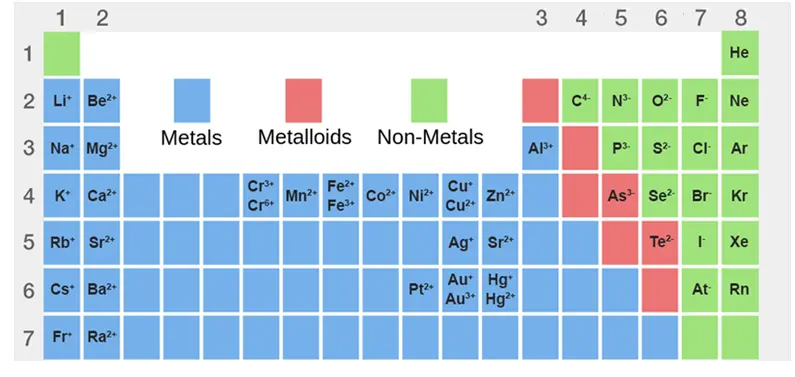
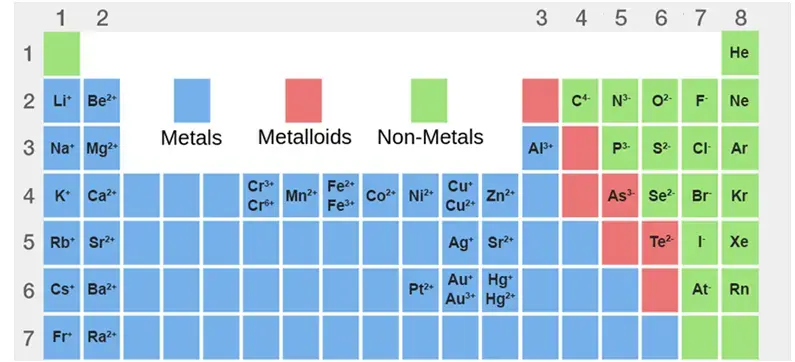
Lessons: remove review system (Under review tag), auto-matched image backgrounds, soft photo circles; 1f content updates (hydroxide, periodic table reveal, lattice slides, melting-point chart)
Claude-Session: https://claude.ai/code/session_01H1UEYcRVFZwctk9pSkbS59

diff --git a/interactive/lessons/chemistry/1f/draft/index.html b/interactive/lessons/chemistry/1f/draft/index.html
@@ -32,7 +32,7 @@
     <div class="card"><h3 style="margin-top:0;color:var(--green)">Cations</h3><p style="font:900 44px 'Barlow Condensed',Arial Narrow,sans-serif;color:var(--green)">Na<sup>+</sup></p><p>Atoms that <b>lost</b> electrons, so they have more protons than electrons. <b>Positive.</b> Usually <b>metals</b>.</p></div>
     <div class="card"><h3 style="margin-top:0;color:var(--acc2)">Anions</h3><p style="font:900 44px 'Barlow Condensed',Arial Narrow,sans-serif;color:var(--acc2)">Cl<sup>−</sup></p><p>Atoms that <b>gained</b> electrons, so they have more electrons than protons. <b>Negative.</b> Usually <b>non-metals</b>.</p></div>
   </div>
-  <div class="grid2"><figure class="pic sm"><img src="img/kitten1.webp" alt="A happy kitten"><figcaption>Cat-ions are <b>paw-sitive</b></figcaption></figure><figure class="pic sm"><img src="img/gold.webp" alt="Molten gold being poured"><figcaption>Metals like gold (Au) can lose electrons to form positively charged cations (Au<sup>+</sup>)</figcaption></figure></div>
+  <div class="grid2"><figure class="pic sm" data-nomatch><div class="softrow" style="margin:0"><img class="soft" src="img/kitten1.webp" alt="A happy kitten"></div><figcaption>Cat-ions are <b>paw-sitive</b></figcaption></figure><figure class="pic sm"><img src="img/gold.webp" alt="Molten gold being poured"><figcaption>Metals like gold (Au) can lose electrons to form positively charged cations (Au<sup>+</sup>)</figcaption></figure></div>
   <p>Atoms lose or gain electrons to get a <b>full outer shell</b>. Metals have 1–3 outer electrons, so they lose them. Non-metals have 5–7, so they gain more.</p>
   <table class="cmp">
     <thead><tr><th>Atom</th><th>Electrons</th><th>Change</th><th>Ion</th><th>Electrons</th></tr></thead>
@@ -44,7 +44,13 @@
     </tbody>
   </table>
   <div class="grid2"><figure class="pic sm"><img src="img/cl-ion.webp" alt="Chlorine atom 2.8.7 gains an electron to become a chloride ion in brackets with a minus charge"><figcaption>Chlorine atom → chloride ion, Cl<sup>−</sup></figcaption></figure><figure class="pic sm"><img src="img/na-ion.webp" alt="Sodium atom loses its outer electron to become a sodium ion"><figcaption>Sodium atom → sodium ion, Na<sup>+</sup>. You don't need to draw the outer shell once its electron has gone.</figcaption></figure></div>
-  <div class="grid2" style="align-items:center"><div><p><b>Whole molecules can be ions too.</b> A phosphate ion has gained an extra electron on each of 3 oxygen atoms, so it has a charge of 3− (PO<sub>4</sub><sup>3−</sup>).</p><p>Nitrate (NO<sub>3</sub><sup>−</sup>), sulfate (SO<sub>4</sub><sup>2−</sup>) and carbonate (CO<sub>3</sub><sup>2−</sup>) are other examples.</p></div><figure class="pic sm" style="background:#222"><img src="img/phosphate.webp" alt="Phosphate ion: P double bonded to one O and single bonded to three O− atoms"></figure></div>
+  <div class="grid2" style="align-items:center"><div><p><b>Whole molecules can be ions too.</b> A hydroxide ion, OH<sup>−</sup>, is an oxygen atom and a hydrogen atom joined by a shared pair, with <b>one extra electron</b> (red). That extra electron gives the whole group a charge of 1−.</p><p>Other molecular ions you need: nitrate (NO<sub>3</sub><sup>−</sup>), carbonate (CO<sub>3</sub><sup>2−</sup>), sulfate (SO<sub>4</sub><sup>2−</sup>) and ammonium (NH<sub>4</sub><sup>+</sup>, which has one electron fewer than its atoms, so it is 1+).</p></div><figure class="pic" data-nomatch><svg viewBox="-110 -95 300 190" role="img" aria-label="Dot-and-cross diagram of a hydroxide ion: oxygen and hydrogen share a pair of electrons, oxygen has three more pairs, one electron of which (red) is the extra electron that gives the ion its negative charge" font-family="Barlow,Arial,sans-serif">
+<circle cx="0" cy="0" r="52" fill="none" stroke="#111" stroke-width="2.2"/><circle cx="66" cy="0" r="42" fill="none" stroke="#111" stroke-width="2.2"/>
+<circle r="17" fill="#e04848"/><text y="6" text-anchor="middle" font-size="18" font-weight="700" fill="#fff">O</text>
+<circle cx="66" r="12" fill="#4aa3ff"/><text x="66" y="5.5" text-anchor="middle" font-size="15" font-weight="700" fill="#fff">H</text>
+<g stroke="#111" stroke-width="2.8" stroke-linecap="round"><line x1="35.721212121212126" y1="-10.4" x2="44.52121212121212" y2="-1.5999999999999996"/><line x1="35.721212121212126" y1="-1.5999999999999996" x2="44.52121212121212" y2="-10.4"/></g><circle cx="40.121212121212125" cy="6" r="4.6" fill="#111"/><g stroke="#111" stroke-width="2.8" stroke-linecap="round"><line x1="-10.4" y1="-56.4" x2="-1.5999999999999996" y2="-47.6"/><line x1="-10.4" y1="-47.6" x2="-1.5999999999999996" y2="-56.4"/></g><g stroke="#111" stroke-width="2.8" stroke-linecap="round"><line x1="1.5999999999999996" y1="-56.4" x2="10.4" y2="-47.6"/><line x1="1.5999999999999996" y1="-47.6" x2="10.4" y2="-56.4"/></g><g stroke="#111" stroke-width="2.8" stroke-linecap="round"><line x1="-10.4" y1="47.6" x2="-1.5999999999999996" y2="56.4"/><line x1="-10.4" y1="56.4" x2="-1.5999999999999996" y2="47.6"/></g><g stroke="#111" stroke-width="2.8" stroke-linecap="round"><line x1="1.5999999999999996" y1="47.6" x2="10.4" y2="56.4"/><line x1="1.5999999999999996" y1="56.4" x2="10.4" y2="47.6"/></g><g stroke="#111" stroke-width="2.8" stroke-linecap="round"><line x1="-56.4" y1="-10.4" x2="-47.6" y2="-1.5999999999999996"/><line x1="-56.4" y1="-1.5999999999999996" x2="-47.6" y2="-10.4"/></g><circle cx="-52" cy="6" r="4.6" fill="#e01b24"/>
+<path d="M-74 -72H-84V72H-74M138 -72H148V72H138" fill="none" stroke="#111" stroke-width="3"/><text x="152" y="-60" font-size="26" font-weight="700">−</text>
+</svg><figcaption>Hydroxide ion, OH<sup>−</sup>: the red electron is the extra one</figcaption></figure></div>
 </section>
 
 <section id="which" data-toc="Ionic or covalent?">
@@ -172,8 +178,14 @@
   <section class="ps"><h2>Losing or gaining electrons</h2><div class="fig"><img src="img/cation-anion.webp" alt="Neutral atom: loss of electrons gives a cation, gain of electrons gives an anion"></div></section>
   <section class="ps"><div class="two" style="flex:1"><div class="box" style="height:100%;display:flex;flex-direction:column;justify-content:center"><div class="big" style="color:var(--green);font-size:110px;font-family:'Barlow Condensed'">Cations</div><div class="big" style="color:var(--green);font-size:120px">Na<sup>+</sup></div><div class="mid mt2" data-s="1">lost electrons<br>more protons than electrons<br>usually <b>metals</b></div></div><div class="box" style="height:100%;display:flex;flex-direction:column;justify-content:center"><div class="big em" style="font-size:110px;font-family:'Barlow Condensed'">Anions</div><div class="big em" style="font-size:120px">Cl<sup>−</sup></div><div class="mid mt2" data-s="2">gained electrons<br>more electrons than protons<br>usually <b>non-metals</b></div></div></div></section>
 
-  <section class="ps"><h2>Cat-ions are <span class="em">paw-sitive</span></h2><div class="imrow"><div><img src="img/kitten1.webp" alt="Kitten"></div><div data-s="1"><img src="img/kitten2.webp" alt="Kitten"></div><div data-s="2"><img src="img/kitten3.webp" alt="Cat"></div><div data-s="3"><img src="img/metal-cat.webp" alt="Metal cat sculpture"><div class="cap">metal → cat-ion</div></div></div></section>
-  <section class="ps"><h2>Molecules can be ions too</h2><div class="row"><div class="col"><div class="mid">A phosphate ion has <span class="em">gained</span> an extra electron on each of 3 oxygen atoms</div><div class="big mt" data-s="1">→ charge of 3− &nbsp;(PO<sub>4</sub><sup class="em">3−</sup>)</div><div class="mid grey mt" data-s="2">also NO<sub>3</sub><sup>−</sup>, SO<sub>4</sub><sup>2−</sup>, CO<sub>3</sub><sup>2−</sup></div></div><div class="fig" style="background:#222;border:5px solid #111"><img src="img/phosphate.webp" alt="Phosphate ion with three O−"></div></div></section>
+  <section class="ps"><h2>Cat-ions are <span class="em">paw-sitive</span></h2><div class="softrow"><figure><img class="soft" src="img/kitten1.webp" alt="Kitten"></figure><figure data-s="1"><img class="soft" src="img/kitten2.webp" alt="Kitten"></figure><figure data-s="2"><img class="soft" src="img/kitten3.webp" alt="Cat"></figure><figure data-s="3"><img class="soft" src="img/metal-cat.webp" alt="Metal cat sculpture"><figcaption>metal → cat-ion</figcaption></figure></div></section>
+  <section class="ps"><h2>Molecules can be ions too</h2><div class="row"><div class="col"><div class="mid">Hydroxide, OH<sup>−</sup>: O and H share a pair of electrons</div><div class="mid mt" data-s="1">The group has gained <span class="em">one extra electron</span></div><div class="big mt" data-s="2">→ charge of 1−</div><div class="small grey mt" data-s="3">also NO<sub>3</sub><sup>−</sup> · CO<sub>3</sub><sup>2−</sup> · SO<sub>4</sub><sup>2−</sup> · NH<sub>4</sub><sup>+</sup></div></div><div class="fig"><div style="width:100%;height:100%" data-s="1"><svg style="width:100%;height:100%" viewBox="-110 -95 300 190" role="img" aria-label="Dot-and-cross diagram of a hydroxide ion: oxygen and hydrogen share a pair of electrons, oxygen has three more pairs, one electron of which (red) is the extra electron that gives the ion its negative charge" font-family="Barlow,Arial,sans-serif">
+<circle cx="0" cy="0" r="52" fill="none" stroke="#111" stroke-width="2.2"/><circle cx="66" cy="0" r="42" fill="none" stroke="#111" stroke-width="2.2"/>
+<circle r="17" fill="#e04848"/><text y="6" text-anchor="middle" font-size="18" font-weight="700" fill="#fff">O</text>
+<circle cx="66" r="12" fill="#4aa3ff"/><text x="66" y="5.5" text-anchor="middle" font-size="15" font-weight="700" fill="#fff">H</text>
+<g stroke="#111" stroke-width="2.8" stroke-linecap="round"><line x1="35.721212121212126" y1="-10.4" x2="44.52121212121212" y2="-1.5999999999999996"/><line x1="35.721212121212126" y1="-1.5999999999999996" x2="44.52121212121212" y2="-10.4"/></g><circle cx="40.121212121212125" cy="6" r="4.6" fill="#111"/><g stroke="#111" stroke-width="2.8" stroke-linecap="round"><line x1="-10.4" y1="-56.4" x2="-1.5999999999999996" y2="-47.6"/><line x1="-10.4" y1="-47.6" x2="-1.5999999999999996" y2="-56.4"/></g><g stroke="#111" stroke-width="2.8" stroke-linecap="round"><line x1="1.5999999999999996" y1="-56.4" x2="10.4" y2="-47.6"/><line x1="1.5999999999999996" y1="-47.6" x2="10.4" y2="-56.4"/></g><g stroke="#111" stroke-width="2.8" stroke-linecap="round"><line x1="-10.4" y1="47.6" x2="-1.5999999999999996" y2="56.4"/><line x1="-10.4" y1="56.4" x2="-1.5999999999999996" y2="47.6"/></g><g stroke="#111" stroke-width="2.8" stroke-linecap="round"><line x1="1.5999999999999996" y1="47.6" x2="10.4" y2="56.4"/><line x1="1.5999999999999996" y1="56.4" x2="10.4" y2="47.6"/></g><g stroke="#111" stroke-width="2.8" stroke-linecap="round"><line x1="-56.4" y1="-10.4" x2="-47.6" y2="-1.5999999999999996"/><line x1="-56.4" y1="-1.5999999999999996" x2="-47.6" y2="-10.4"/></g><circle cx="-52" cy="6" r="4.6" fill="#e01b24"/>
+<path d="M-74 -72H-84V72H-74M138 -72H148V72H138" fill="none" stroke="#111" stroke-width="3"/><text x="152" y="-60" font-size="26" font-weight="700">−</text>
+</svg></div></div></div></section>
   <section class="ps"><h2>Metals form cations</h2><div class="fig"><img src="img/gold.webp" alt="Molten gold being poured"></div><div class="mid mt2">Metals like gold (Au) can lose electrons to form positively charged cations (Au<sup>+</sup>)</div></section>
 
   <section class="ps"><h2>Ionic or covalent?</h2><div class="fig"><img src="img/ionic-vs-covalent.webp" alt="Ionic bond: metal + nonmetal. Covalent bond: nonmetal + nonmetal or metalloid + nonmetal"></div><div class="two" style="flex:none;margin-top:20px"><div class="mid em" data-s="1">ionic: electrons TRANSFERRED</div><div class="mid em" data-s="2">covalent: electrons SHARED</div></div></section>
@@ -189,16 +201,16 @@
 
   <section class="ps"><h2>Charge from the group</h2><table class="cmp" style="margin-top:30px"><thead><tr><th>Group</th><th>1</th><th>2</th><th>3</th><th>5</th><th>6</th><th>7</th></tr></thead><tbody><tr><th>Charge</th><td data-s="1">1+</td><td data-s="1">2+</td><td data-s="1">3+</td><td data-s="2">3−</td><td data-s="2">2−</td><td data-s="2">1−</td></tr><tr><th>Example</th><td data-s="1">Na<sup>+</sup></td><td data-s="1">Mg<sup>2+</sup></td><td data-s="1">Al<sup>3+</sup></td><td data-s="2">N<sup>3−</sup></td><td data-s="2">O<sup>2−</sup></td><td data-s="2">Cl<sup>−</sup></td></tr></tbody></table></section>
 
-  <section class="ps"><h2>Ion charges</h2><div class="fig"><img src="img/ion-periodic-table.webp" alt="Periodic table of ion charges"></div></section>
+  <section class="ps" data-nomatch><h2>Ion charges</h2><div class="fig"><div class="ptwrap"><img src="img/ion-periodic-table.webp" alt="Periodic table of ion charges"><div class="blank" data-hide-from="1" style="left:15.3%;top:0;width:50.2%;height:100%"></div><div class="blank" data-hide-from="1" style="left:90.2%;top:0;width:9.8%;height:100%"></div></div></div><div class="small grey" style="text-align:center" data-hide-from="1">Groups 1, 2 and 3–7: work these out from the group number</div></section>
   <section class="ps"><h2>Simulation: ion model</h2><div style="margin:auto 0"><a class="linkcard" href="https://javalab.org/en/ion_model_en/" target="_blank" rel="noopener"><img src="img/sim-ion-model.webp" alt=""><span class="lt"><b>Simulation</b>Ion model: build ions and match them into compounds<small>javalab.org ↗</small></span></a></div></section>
   <section class="ps"><h2>Positive ions to learn</h2><div class="row"><div class="col mid">1+ &nbsp;<b>S</b>ilver, <b>H</b>ydrogen, <b>A</b>mmonium<br>2+ &nbsp;<b>C</b>opper, <b>Z</b>inc, <b>L</b>ead, <b>I</b>ron(II)<br>3+ &nbsp;<b>I</b>ron(III)</div><div class="col big em" data-s="1">small hen and<br>cool zebra ina lemon –<br>illegal!</div><div class="fig" data-s="2" style="flex:1"><img src="img/mnemonic-positive.webp" alt="Zebra in a lemon and police officer: ILLEGAL!"></div></div></section>
   <section class="ps"><h2>Negative ions to learn</h2><div class="row"><div class="col mid">1− &nbsp;<b>N</b>itrate, <b>H</b>ydroxide<br>2− &nbsp;<b>C</b>arbonate, <b>S</b>ulfate</div><div class="col big em" data-s="1" style="font-size:110px">No hex!<br>Cake sale!</div><div class="fig" data-s="2" style="flex:1.2"><img src="img/mnemonic-negative.webp" alt="Witches at a cake sale: NO HEX"></div></div></section>
 
-  <section class="ps"><h2>Ionic bond</h2><div class="row"><div class="col"><div class="big">Strong <span class="em">electrostatic attraction</span> between <span class="em">oppositely charged ions</span></div><div class="mid mt" data-s="1">ions closely packed in a 3D <b>giant ionic lattice</b>, which is why they form <b>crystals</b></div></div><div class="fig" data-comp="nacl-lattice"></div></div></section>
-  <section class="ps"><h2>Ionic lattices</h2><div class="imrow"><div><img src="img/naf-lattice.webp" alt="NaF lattice"><div class="cap">NaF lattice</div></div><div data-s="1"><img src="img/lattice.webp" alt="Giant ionic lattice"><div class="cap">opposite charges closely packed in 3D</div></div></div></section>
+  <section class="ps"><h2>Ionic compounds</h2><div class="row"><div class="col" style="flex:1.3"><div class="small">Ionic compounds form when <b>metals</b> react with <b>non-metals</b></div><div class="small mt2" data-s="1">The metal <span class="em">loses</span> electrons to form a <b>cation</b></div><div class="small mt2" data-s="2">The non-metal <span class="em">gains</span> electrons to form an <b>anion</b></div><div class="small mt2" data-s="3">Cations and anions are <b>strongly attracted</b> to each other (<span class="em">electrostatic attraction</span>), forming an <b>ionic bond</b></div></div><div class="fig" style="flex-direction:column"><img src="img/naf-lattice.webp" alt="Sodium fluoride lattice" style="max-height:520px"><div class="small grey">Sodium fluoride (NaF)</div></div></div></section>
+  <section class="ps"><h2>Ionic lattices</h2><div class="row"><div class="col" style="flex:1.5"><div class="small">Ionic compounds form <b>giant lattice structures</b></div><div class="small mt2" data-s="1">Ions with opposite charges are closely packed together in a <b>3D arrangement</b></div><div class="small mt2" data-s="2">The electrostatic attraction between ions is <span class="em">very strong</span></div><div class="small mt2" data-s="3">Lots of energy is needed to overcome it → <span class="em">very high melting and boiling points</span></div><div class="small mt2" data-s="4">They <b>do not conduct</b> electricity when <b>solid</b></div><div class="small mt2" data-s="5">They <b>do conduct</b> when <b>dissolved in water</b> or <b>molten</b></div></div><div class="fig" style="flex-direction:column"><img src="img/lattice.webp" alt="Giant ionic lattice" style="max-height:560px"><div class="small grey" style="font-size:26px">positive ions are electrostatically attracted to negative ions</div></div></div></section>
   <section class="ps"><h2>Ionic compounds form crystals</h2><div class="imrow"><div><img src="img/salt-crystals.webp" alt="Salt crystals"></div><div data-s="1" style="flex:1.4"><img src="img/coloured-salts.webp" alt="Coloured ionic crystals"></div></div></section>
   <section class="ps"><h2>Simulation: ions forming crystals</h2><div style="margin:auto 0"><a class="linkcard" href="https://sciencedemos.org.uk/ions.php" target="_blank" rel="noopener"><img src="img/sim-crystals.webp" alt=""><span class="lt"><b>Simulation</b>Ions forming crystals: watch ions arrange into a lattice<small>sciencedemos.org.uk ↗</small></span></a></div></section>
-  <section class="ps"><h2>Why high melting points?</h2><div class="big">Very strong attraction, and lots of it</div><div class="big mt" data-s="1">→ lots of energy needed to overcome it</div><div class="mid mt grey" data-s="2">NaCl melts at 801 °C · MgO at 2852 °C (2+ and 2− ions attract more strongly)</div></section>
+  <section class="ps"><h2>Why high melting points?</h2><div class="row"><div class="col"><div class="mid">Very strong attraction, and lots of it</div><div class="mid mt" data-s="1">→ lots of energy needed to overcome it</div><div class="small mt grey" data-s="2">Mg<sup>2+</sup> and O<sup>2−</sup> have double the charges → even stronger attraction</div></div><div class="fig"><svg viewBox="0 0 640 420" style="width:100%;height:100%" role="img" aria-label="Melting points: water 0 °C, sodium chloride 801 °C, magnesium oxide 2852 °C" font-family="Barlow,Arial,sans-serif"><line x1="70" y1="360" x2="620" y2="360" stroke="#111" stroke-width="3"/><text x="20" y="200" transform="rotate(-90 20 200)" text-anchor="middle" font-size="20">melting point / °C</text><rect x="110" y="356" width="120" height="4" fill="#4aa3ff"/><text x="170" y="340" text-anchor="middle" font-size="26" font-weight="700">0</text><text x="170" y="392" text-anchor="middle" font-size="22" font-weight="700">water</text><text x="170" y="414" text-anchor="middle" font-size="17" fill="#555">simple molecules</text><rect x="290" y="267.9" width="120" height="92.1" fill="#c8001e"/><text x="350" y="255.9" text-anchor="middle" font-size="26" font-weight="700">801</text><text x="350" y="392" text-anchor="middle" font-size="22" font-weight="700">NaCl</text><text x="350" y="414" text-anchor="middle" font-size="17" fill="#555">Na⁺ Cl⁻</text><rect x="470" y="32.0" width="120" height="328.0" fill="#8c0013"/><text x="530" y="20.0" text-anchor="middle" font-size="26" font-weight="700">2852</text><text x="530" y="392" text-anchor="middle" font-size="22" font-weight="700">MgO</text><text x="530" y="414" text-anchor="middle" font-size="17" fill="#555">Mg²⁺ O²⁻</text></svg></div></div></section>
   <section class="ps"><h2>Does it conduct?</h2><div class="row" style="align-items:flex-start"><div class="fig" style="flex:1.3;flex-direction:column;align-items:stretch" data-comp="ion-conduction"></div><div class="col"><div class="mid" data-s="1">Solid: <b>no</b><br><span class="small grey">ions in fixed positions</span></div><div class="mid mt" data-s="2">Molten / dissolved: <b class="em">yes</b><br><span class="small grey">ions free to move</span></div></div></div></section>
 
   <section class="ps"><h2>Formulae: balance the charges</h2><div class="big">Calcium chloride</div><div class="big mt">Ca<sup>2+</sup> &nbsp; Cl<sup>−</sup></div><div class="mid mt" data-s="1">need <b>2</b> Cl<sup>−</sup> to cancel 2+ → total charge 0</div><div class="row" style="flex:none"><div class="big em mt" data-s="2" style="font-size:110px">CaCl<sub>2</sub></div><img src="img/white-crystals.webp" alt="" data-s="2" style="height:230px;margin-left:auto"></div></section>

diff --git a/interactive/lessons/assets/lesson.js b/interactive/lessons/assets/lesson.js
@@ -1,5 +1,5 @@
 /* Cakebread Science lessons engine
-   - builds TOC, status badge, questions, projector deck (from #deck-src), review mode (drafts)
+   - builds TOC, status badge, questions, projector deck (from #deck-src)
    - components: elements with data-comp="name" are initialised by functions registered in Lesson.comps
 */
 (function(){
@@ -17,7 +17,7 @@ function header(){
   const nav = $('.lhead .navrow');
   if(nav){
     if(!nav.querySelector('a[href="/"]')) nav.insertAdjacentHTML('afterbegin', `<a href="/" title="Cakebread Science home">🏠 Home</a>`);
-    const badge = st === 'checked' ? `<span class="status checked">Checked · ${fmtDate(ver)}</span>` : `<span class="status draft">Draft · updated ${fmtDate(upd)}</span>`;
+    const badge = st === 'checked' ? `<span class="status checked">Checked · ${fmtDate(ver)}</span>` : `<span class="status draft">Under review · updated ${fmtDate(upd)}</span>`;
     nav.insertAdjacentHTML('beforeend', badge + `<button class="pbtn2" id="hdrPresent">▶ Present on projector</button>`);
   }
   const toc = $('.lhead .toc');
@@ -42,7 +42,7 @@ function questions(){
     if(x.type === 'mc'){
       const o = document.createElement('div'); o.className='opts'; const fb = document.createElement('div'); fb.className='fb';
       x.o.forEach((t,j) => { const b = document.createElement('button'); b.innerHTML = t; b.onclick = () => {
-        if(body.classList.contains('review') || d.dataset.done) return; d.dataset.done = 1; tried++;
+        if(d.dataset.done) return; d.dataset.done = 1; tried++;
         b.classList.add(j===x.a?'right':'wrong'); o.children[x.a].classList.add('right');
         if(j===x.a){ got++; fb.textContent='Correct.'; fb.style.color='var(--green)'; } else { fb.textContent='Not quite: the correct answer is highlighted.'; fb.style.color='var(--acc2)'; }
         $('.sc', out).textContent = got+' / '+tried; }; o.appendChild(b); });
@@ -70,12 +70,12 @@ function deck(){
   });
   const root = document.createElement('div'); root.id = 'deck';
   root.innerHTML = `<div id="stageWrap"><div id="stage"></div></div>
-   <div class="dbar"><button class="v2only" id="dPrevS" title="Previous slide (Shift+←)">⏮ Slide</button><button id="dPrev" title="Back one step (←)">‹ Back</button><span id="dCount"></span><button id="dNext" title="Next step or slide (→, space, click)">Next ›</button><button class="v2only" id="dNextS" title="Next slide, skipping reveals (Shift+→)">Next slide ⏭</button><button class="v2only" id="dAll" title="All slides (G)">▦ All slides</button><button id="dBlack" title="Blank screen (B)">■ Blank</button><button id="dFull" title="F">⛶ Full screen</button><button class="rvonly" id="dNote" title="N">✎ Note this slide</button><button class="rvonly" id="dNotes">Notes list</button><button id="dExit" title="Esc">✕ Exit</button></div>
+   <div class="dbar"><button class="v2only" id="dPrevS" title="Previous slide (Shift+←)">⏮ Slide</button><button id="dPrev" title="Back one step (←)">‹ Back</button><span id="dCount"></span><button id="dNext" title="Next step or slide (→, space, click)">Next ›</button><button class="v2only" id="dNextS" title="Next slide, skipping reveals (Shift+→)">Next slide ⏭</button><button class="v2only" id="dAll" title="All slides (G)">▦ All slides</button><button id="dBlack" title="Blank screen (B)">■ Blank</button><button id="dFull" title="F">⛶ Full screen</button><button id="dExit" title="Esc">✕ Exit</button></div>
    <div id="black"></div><div id="overview"><div class="ovhead"><b>All slides</b><span>Click a slide to jump to it · Esc to close</span><button id="ovClose">✕ Close</button></div><div class="ovgrid"></div></div>`;
   document.body.appendChild(root);
   const stage = $('#stage');
   const slides = $$('section.ps', src);
-  stage.innerHTML = slides.map((s,i) => `<section class="ps ${s.className.replace('ps','')}" ${s.getAttribute('style')?`style="${s.getAttribute('style')}"`:''} data-rid="slide ${i+1}"><div class="sbar"></div>${s.innerHTML}<div class="num">${i+1} / ${slides.length}</div></section>`).join('');
+  stage.innerHTML = slides.map((s,i) => `<section class="ps ${s.className.replace('ps','')}" ${s.getAttribute('style')?`style="${s.getAttribute('style')}"`:''}><div class="sbar"></div>${s.innerHTML}<div class="num">${i+1} / ${slides.length}</div></section>`).join('');
   src.remove();
   L.initComps(stage);
   const ps = $$('.ps', stage);
@@ -102,7 +102,7 @@ function deck(){
     if(!ovBuilt){
       ps.forEach((p,i) => {
         const t = document.createElement('div'); t.className = 'ovt'; t.dataset.i = i;
-        const c = p.cloneNode(true); c.classList.add('cur'); c.removeAttribute('data-rid');
+        const c = p.cloneNode(true); c.classList.add('cur');
         $$('.hint', c).forEach(h => h.remove()); $$('video', c).forEach(v => { v.removeAttribute('autoplay'); v.muted = true; });
         const h = $('h1,h2', p), lines = (h || p).innerText.split('\n').map(x => x.trim()).filter(Boolean), title = (h ? lines.join(' ') : (lines[0] || 'Slide')).slice(0,60);
         t.innerHTML = '<div class="ovs"></div>'; t.firstChild.appendChild(c);
@@ -127,10 +127,7 @@ function deck(){
   $('#dNext').onclick = next; $('#dPrev').onclick = prev;
   $('#dNextS').onclick = nextSlide; $('#dPrevS').onclick = prevSlide; $('#dAll').onclick = () => ovOpen() ? ovClose() : overview(); $('#ovClose').onclick = ovClose; $('#dExit').onclick = exit; $('#dFull').onclick = full;
   const blk = $('#black'); $('#dBlack').onclick = () => blk.classList.toggle('on'); blk.onclick = () => blk.classList.remove('on');
-  $('#dNote').onclick = e => { e.stopPropagation(); L.noteFor && L.noteFor(ps[cur], innerWidth/2-180, 80); };
-  $('#dNotes').onclick = e => { e.stopPropagation(); body.classList.toggle('rvopen'); };
   stage.addEventListener('click', e => {
-    if(body.classList.contains('review')) return;           // review handles clicks
     if(e.target.closest('button,input,select,a,canvas,.nonav')) return;
     const r = stage.getBoundingClientRect(); (e.clientX < r.left + r.width/4) ? prev() : next();
   });
@@ -146,7 +143,6 @@ function deck(){
     else if(e.key==='Escape') exit();
     else if(e.key==='f'||e.key==='F') full();
     else if(e.key==='b'||e.key==='B'||e.key==='.') blk.classList.toggle('on');
-    else if((e.key==='n'||e.key==='N') && body.classList.contains('review')) $('#dNote').click();
     else if(e.key==='Home') show(0); else if(e.key==='End') show(ps.length-1);
   });
   let tx=null; addEventListener('touchstart', e => { tx = e.touches[0].clientX; }, {passive:true});
@@ -155,107 +151,6 @@ function deck(){
   addEventListener('resize', () => { if(isP()) fit(); if(ovOpen()) ovScale(); });
   deckApi = L.deck = { show, next, prev, nextSlide, prevSlide, overview, enter, exit, count: ps.length, get cur(){ return cur; } };
   if(location.hash === '#present') enter();
-}
-
-/* ---------- review mode (drafts only) ---------- */
-function review(){
-  if((body.dataset.status||'draft') !== 'draft') return;
-  const key = 'rv:' + location.pathname;
-  let notes = []; try { notes = JSON.parse(localStorage.getItem(key)) || []; } catch(e){}
-  let general = ''; try { general = localStorage.getItem(key+':g') || ''; } catch(e){}
-  const save = () => { try { localStorage.setItem(key, JSON.stringify(notes)); localStorage.setItem(key+':g', general); } catch(e){} };
-  // assign review ids to page blocks
-  $$('.wrap > section[id]').forEach(sec => {
-    const h2 = $('h2', sec), title = (h2 ? h2.childNodes[0].textContent : sec.id).trim(); let n = 0;
-    const blocks = [];
-    [...sec.children].forEach(c => { if(c.matches('.grid2,.grid3')) blocks.push(...c.children); else if(c.id !== 'qs') blocks.push(c); });
-    blocks.forEach(b => { n++; b.dataset.rid = `${title.trim()} › block ${n}`; });
-  });
-  $$('#qs .q').forEach((q,i) => q.dataset.rid = `Check yourself › Q${i+1}`);
-  const label = el => {
-    if(el.classList.contains('ps')){ const h = $('h1,h2', el); return `Projector ${el.dataset.rid}${h?': "'+h.textContent.trim().slice(0,60)+'"':''}`; }
-    return el.dataset.rid;
-  };
-  const snip = el => (el.classList.contains('ps') ? '' : (el.innerText||'').replace(/\s+/g,' ').trim().slice(0,90));
-  // UI
-  const rb = document.createElement('button'); rb.className='rvbtn'; rb.textContent='✎ Review'; document.body.appendChild(rb);
-  const panel = document.createElement('div'); panel.id='rvPanel';
-  panel.innerHTML = `<header><b>Review notes</b><button class="btn" id="rvClose" style="padding:2px 10px">Done</button></header>
-   <div class="rvhelp">Click any block on the page to add a note. In projector mode use <b>✎ Note this slide</b> (or N). Notes are saved in this browser. When finished, <b>Copy all notes</b> and paste them into a chat with Claude.</div>
-   <div id="rvList"></div>
-   <div class="rvfoot"><label style="font-weight:700">General comments<textarea id="rvGen" placeholder="Overall thoughts, missing content, tone…"></textarea></label>
-   <button class="main" id="rvCopy">Copy all notes</button><button id="rvClear">Clear all notes</button></div>`;
-  document.body.appendChild(panel);
-  const pop = document.createElement('div'); pop.id='rvPop';
-  pop.innerHTML = `<div class="w"></div><textarea placeholder="What should change here?"></textarea><div class="a"><button class="del">Delete</button><button class="cancel">Cancel</button><button class="main ok">Save note</button></div>`;
-  document.body.appendChild(pop);
-  const gen = $('#rvGen'); gen.value = general; gen.oninput = () => { general = gen.value; save(); };
-  let editing = null;
-  function openPop(el, x, y, existing){
-    editing = { el, existing };
-    $('.w', pop).textContent = label(el) + (snip(el) ? ' — "' + snip(el) + '…"' : '');
-    $('textarea', pop).value = existing ? existing.text : '';
-    $('.del', pop).style.display = existing ? '' : 'none';
-    pop.style.display = 'block';
-    pop.style.left = Math.max(8, Math.min(innerWidth - pop.offsetWidth - 8, x)) + 'px';
-    pop.style.top = Math.max(8, Math.min(innerHeight - pop.offsetHeight - 8, y)) + 'px';
-    $('textarea', pop).focus();
-  }
-  L.noteFor = (el, x, y) => openPop(el, x, y, notes.find(n => n.rid === el.dataset.rid));
-  $('.cancel', pop).onclick = () => { pop.style.display='none'; };
-  $('.ok', pop).onclick = () => {
-    const t = $('textarea', pop).value.trim(), el = editing.el;
-    if(editing.existing){ if(t) editing.existing.text = t; else notes = notes.filter(n => n !== editing.existing); }
-    else if(t) notes.push({ rid: el.dataset.rid, label: label(el), snip: snip(el), text: t, ts: Date.now() });
-    save(); pop.style.display='none'; render();
-  };
-  $('.del', pop).onclick = () => { notes = notes.filter(n => n !== editing.existing); save(); pop.style.display='none'; render(); };
-  document.addEventListener('click', e => {
-    if(!body.classList.contains('review')) return;
-    if(e.target.closest('#rvPanel,#rvPop,.rvbtn,.pbtn,.dbar,.lhead')) return;
-    const el = e.target.closest('[data-rid]'); if(!el) return;
-    if(body.classList.contains('pm') && el.classList.contains('ps') && e.target.closest('button')) return; // let slide buttons work
-    e.preventDefault(); e.stopPropagation();
-    L.noteFor(el, e.clientX + 10, e.clientY + 10);
-  }, true);
-  function render(){
-    $$('.rvpin').forEach(p => p.remove()); $$('[data-rid].has-note').forEach(e => e.classList.remove('has-note'));
-    const list = $('#rvList');
-    list.innerHTML = notes.length ? '' : '<p style="color:#777;padding:6px 0">No notes yet.</p>';
-    notes.forEach((n,i) => {
-      const el = $(`[data-rid="${CSS.escape(n.rid)}"]`);
-      if(el){ el.classList.add('has-note');
-        if(!el.classList.contains('ps') && body.classList.contains('review')){ const r = el.getBoundingClientRect(); const p = document.createElement('div'); p.className='rvpin'; p.textContent = i+1; p.style.left = (r.right + scrollX - 14) + 'px'; p.style.top = (r.top + scrollY - 12) + 'px'; document.body.appendChild(p); } }
-      const d = document.createElement('div'); d.className='n';
-      d.innerHTML = `<div class="w"><b>${i+1}.</b> ${esc(n.label)}</div><div class="t">${esc(n.text)}</div><div class="a"><button class="go">Show</button><button class="ed">Edit</button></div>`;
-      $('.go', d).onclick = () => { if(!el) return; if(el.classList.contains('ps')){ if(!body.classList.contains('pm')) deckApi.enter(); deckApi.show(+n.rid.split(' ')[1]-1); } else { if(body.classList.contains('pm')) deckApi.exit(); el.scrollIntoView({behavior:'smooth', block:'center'}); } };
-      $('.ed', d).onclick = () => { if(el) openPop(el, innerWidth/2-180, 120, n); };
-      list.appendChild(d);
-    });
-    rb.textContent = '✎ Review' + (notes.length ? ` (${notes.length})` : '');
-  }
-  function exportText(){
-    const lines = [`REVIEW NOTES: ${document.title.split(' · Cakebread')[0]}`, `Page: ${location.pathname}  (draft updated ${body.dataset.updated||'?'})`, `Exported: ${new Date().toLocaleString('en-GB')}`, ''];
-    if(general.trim()) lines.push('General:', general.trim(), '');
-    notes.forEach((n,i) => { lines.push(`${i+1}. [${n.label}]${n.snip ? ' "' + n.snip + '…"' : ''}`); lines.push('   → ' + n.text.replace(/\n/g, '\n     ')); });
-    return lines.join('\n');
-  }
-  $('#rvCopy').onclick = async () => {
-    const t = exportText(), b = $('#rvCopy');
-    try { await navigator.clipboard.writeText(t); }
-    catch(e){ const ta = document.createElement('textarea'); ta.value = t; document.body.appendChild(ta); ta.select(); document.execCommand('copy'); ta.remove(); }
-    b.textContent = 'Copied ✓ Paste into your chat with Claude'; setTimeout(() => b.textContent = 'Copy all notes', 2500);
-  };
-  let armed = false;
-  $('#rvClear').onclick = () => { const b = $('#rvClear'); if(!armed){ armed = true; b.textContent = 'Click again to delete all notes'; setTimeout(()=>{ armed=false; b.textContent='Clear all notes'; }, 3000); return; }
-    notes = []; general = ''; gen.value=''; save(); render(); armed=false; b.textContent='Clear all notes'; };
-  const toggle = on => { body.classList.toggle('review', on); render(); };
-  rb.onclick = () => toggle(!body.classList.contains('review'));
-  $('#rvClose').onclick = () => { if(body.classList.contains('pm')) body.classList.remove('rvopen'); else toggle(false); };
-  addEventListener('resize', () => body.classList.contains('review') && render());
-  L.review = { exportText, get notes(){ return notes; }, toggle };
-  render();
-  if(new URLSearchParams(location.search).has('review')) toggle(true);
 }
 
 /* ---------- checked versions: point to a newer one if it exists ---------- */
@@ -269,6 +164,51 @@ function newer(){
   }).catch(()=>{});
 }
 
-function init(){ header(); newer(); L.initComps(document.querySelector('.wrap') || document); questions(); deck(); review(); }
+/* ---------- match backgrounds to big images with a plain background ----------
+   For each projector slide's largest image (≥ 30% of the slide) and each page figure.pic image:
+   sample the edge; if it is one solid colour, give the slide / frame that colour (and white text if dark).
+   Opt out with data-nomatch on the slide/figure. */
+function edgeColour(img){
+  try{
+    const w = img.naturalWidth, h = img.naturalHeight; if(!w || !h) return null;
+    const c = document.createElement('canvas'), k = Math.min(1, 200 / Math.max(w, h)); c.width = Math.max(4, w*k|0); c.height = Math.max(4, h*k|0);
+    const x = c.getContext('2d'); x.drawImage(img, 0, 0, c.width, c.height);
+    const pts = []; const W = c.width-1, H = c.height-1;
+    for(let i=0;i<=10;i++){ pts.push([W*i/10|0,0],[W*i/10|0,H],[0,H*i/10|0],[W,H*i/10|0]); }
+    const px = pts.map(([a,b]) => x.getImageData(a,b,1,1).data);
+    if(px.some(d => d[3] < 200)) return null;                       // transparent edges: leave alone
+    const m = [0,1,2].map(ch => px.reduce((t,d) => t+d[ch], 0) / px.length);
+    const sd = Math.sqrt(px.reduce((t,d) => t + [0,1,2].reduce((u,ch) => u + (d[ch]-m[ch])**2, 0), 0) / px.length / 3);
+    if(sd > 9) return null;                                          // busy edge (photo): leave alone
+    const lum = (0.2126*m[0] + 0.7152*m[1] + 0.0722*m[2]) / 255;
+    if(lum > 0.96) return null;                                      // white already blends in
+    return { css: `rgb(${m.map(v => Math.round(v)).join(',')})`, dark: lum < 0.45 };
+  }catch(e){ return null; }
+}
+function whenLoaded(img, f){ if(img.complete && img.naturalWidth) f(); else img.addEventListener('load', f, {once:true}); }
+function matchBg(){
+  $$('#stage .ps').forEach(p => {
+    if(p.hasAttribute('data-nomatch')) return;
+    const imgs = $$('img', p).filter(i => !i.closest('.linkcard,.ovs,.soft'));
+    if(!imgs.length) return;
+    let done = 0;
+    imgs.forEach(img => whenLoaded(img, () => {
+      if(++done < imgs.length) return;
+      const area = i => { const r = i.getBoundingClientRect(), s = $('#stage').getBoundingClientRect(); return (r.width*r.height) / Math.max(1, s.width*s.height); };
+      const vis = imgs.filter(i => i.offsetParent !== null);
+      const big = (vis.length ? vis : imgs).map(i => [i, i.naturalWidth*i.naturalHeight]).sort((a,b) => b[1]-a[1])[0][0];
+      if(vis.length && area(big) < 0.3) return;
+      const c = edgeColour(big); if(!c) return;
+      p.style.background = c.css; p.classList.add('matched'); p.classList.toggle('darkbg', c.dark);
+    }));
+  });
+  $$('.wrap figure.pic').forEach(f => {
+    if(f.hasAttribute('data-nomatch')) return;
+    const img = $('img', f); if(!img || img.classList.contains('soft')) return;
+    whenLoaded(img, () => { const c = edgeColour(img); if(!c) return; f.style.background = c.css; f.classList.toggle('darkbg', c.dark); });
+  });
+}
+
+function init(){ header(); newer(); L.initComps(document.querySelector('.wrap') || document); questions(); deck(); matchBg(); }
 if(document.readyState === 'loading') document.addEventListener('DOMContentLoaded', init); else init();
 })();

diff --git a/interactive/lessons/index.html b/interactive/lessons/index.html
@@ -48,11 +48,10 @@
 
 <main class="wrap" style="max-width:900px">
   <details class="how">
-    <summary style="cursor:pointer;font-weight:700;font-size:17px">How drafts, reviews and checked versions work</summary>
+    <summary style="cursor:pointer;font-weight:700;font-size:17px">How lessons under review and checked versions work</summary>
     <ol>
-      <li><span class="status draft">Draft</span> Claude builds the lesson as a draft. Drafts can change at any time.</li>
-      <li>Open the draft and press <b>✎ Review</b> (bottom left). Click any paragraph, diagram, question or projector slide and type what should change. Notes save in your browser.</li>
-      <li>Press <b>Copy all notes</b> and paste them into a chat with Claude. Claude updates the draft, and you review again.</li>
+      <li><span class="status draft">Under review</span> Claude builds the lesson from your deck. It can change at any time.</li>
+      <li>Look through the page and the projector slides, then tell Claude in the lessons chat what should change (slide numbers help). Claude updates it, and you look again.</li>
       <li>When you're happy, tell Claude <i>"approve 1f"</i>. The draft is frozen as a <span class="status checked">Checked · date</span> version with its own permanent link. The topic's main link always opens the newest checked version.</li>
       <li>Later changes start a new draft. Older checked versions stay available.</li>
     </ol>
@@ -74,16 +73,15 @@
     if(!t.status) return `<div class="topic none"><div class="code">${t.code}</div><div class="t">${t.title}<small>Spec ${t.spec} · not started</small></div></div>`;
     if(latest) nChecked++; else nDraft++;
     const badge = latest ? `<span class="status checked">Checked · ${fmt(latest)}</span>` : '';
-    const draftNote = t.status === 'draft' ? `<span class="status draft">Draft${t.draftUpdated?' · '+fmt(t.draftUpdated):''}</span>` : '';
-    const links = (latest ? `<a class="main" href="${url}v${latest}/">Open</a><a href="${url}v${latest}/#present">▶ Present</a>` : `<a class="main dr" href="${url}draft/" style="color:#111">Open draft</a><a href="${url}draft/#present">▶ Present</a>`)
-      + (latest && t.status === 'draft' ? `<a class="dr" href="${url}draft/">Draft</a>` : '')
-      + (t.status === 'draft' ? `<a class="dr" href="${url}draft/?review">✎ Review</a>` : '');
+    const draftNote = t.status === 'draft' ? `<span class="status draft">Under review${t.draftUpdated?' · '+fmt(t.draftUpdated):''}</span>` : '';
+    const links = (latest ? `<a class="main" href="${url}v${latest}/">Open</a><a href="${url}v${latest}/#present">▶ Present</a>` : `<a class="main dr" href="${url}draft/" style="color:#111">Open</a><a href="${url}draft/#present">▶ Present</a>`)
+      + (latest && t.status === 'draft' ? `<a class="dr" href="${url}draft/">Under review</a>` : '');
     const older = v.length > 1 ? `<details><summary>Older checked versions</summary>${v.slice(1).map(d=>`<a href="${url}v${d}/">${fmt(d)}</a>`).join('')}</details>` : '';
     return `<div class="topic"><div class="code">${t.code}</div><div class="t">${t.title}<small>Spec ${t.spec} &nbsp;${badge} ${draftNote}</small></div><div class="links">${links}</div>${older}</div>`;
   }).join('') + '</div>').join('');
   document.getElementById('list').innerHTML = html;
   const pc = x => (100*x/n).toFixed(1)+'%';
-  document.getElementById('prog').innerHTML = `<span>${subj.name}: ${nChecked} checked · ${nDraft} in draft · ${n-nChecked-nDraft} to do</span><span class="bar"><i style="width:${pc(nChecked)};background:#00a03a"></i><i style="width:${pc(nDraft)};background:#c9a000"></i></span>`;
+  document.getElementById('prog').innerHTML = `<span>${subj.name}: ${nChecked} checked · ${nDraft} under review · ${n-nChecked-nDraft} to do</span><span class="bar"><i style="width:${pc(nChecked)};background:#00a03a"></i><i style="width:${pc(nDraft)};background:#c9a000"></i></span>`;
 })();
 </script>
 </body>

diff --git a/interactive/lessons/assets/lesson.css b/interactive/lessons/assets/lesson.css
@@ -221,3 +221,22 @@ body[data-deck-ui="v2"] .dbar button.v2only{display:inline-block}
 .ovt .ovl{color:#ccc;font:600 14px 'Barlow',Arial,sans-serif;padding:5px 8px;white-space:nowrap;overflow:hidden;text-overflow:ellipsis}
 .ovt .ovl b{color:#fff;margin-right:4px}
 .ovt .ovs>.ps [data-hide-from]{opacity:0!important}
+
+/* matched backgrounds */
+.ps.darkbg,.ps.darkbg h2,.ps.darkbg .grey{color:#fff}
+figure.pic.darkbg figcaption{color:#eee}
+/* soft photos: same size, round, feathered edge */
+.softrow{display:flex;gap:18px;justify-content:center;flex-wrap:wrap;margin:10px 0}
+img.soft{aspect-ratio:1;object-fit:cover;border-radius:50%;-webkit-mask-image:radial-gradient(circle,#000 60%,transparent 71%);mask-image:radial-gradient(circle,#000 60%,transparent 71%);background:transparent!important;border:0!important}
+.softrow img.soft{width:150px}
+.ps .softrow{gap:40px;flex:1;align-items:center}
+.ps .softrow img.soft{width:290px}
+.ps .softrow figure{display:flex;flex-direction:column;align-items:center}
+.softrow figcaption{text-align:center;font-weight:600}
+.ps .softrow figcaption{font:700 34px 'Barlow',Arial,sans-serif}
+/* periodic table: blank out groups first */
+.ptwrap{position:relative;height:100%;max-width:100%;aspect-ratio:795/362;margin:0 auto}
+.ptwrap img{width:100%;height:100%;display:block;object-fit:fill}
+.ptwrap .blank{position:absolute;background:#fff;transition:opacity .4s}
+.ps.matched:not(.darkbg) .grey{color:rgba(0,0,0,.62)}
+.ps.darkbg .grey{color:rgba(255,255,255,.8)}

diff --git a/admin/VERSION_HISTORY.md b/admin/VERSION_HISTORY.md
@@ -7,6 +7,10 @@
 #### Added
 - **Lessons: new presenting controls (trial on 1f Ionic bonding):** a **Next slide ⏭** button (Shift+→) that skips any remaining reveals and goes straight to the next slide, a **⏮ Slide** button (Shift+←), and **▦ All slides** (G) — a grid of every slide, fully revealed, to jump to any point. The normal Next (→, space, click, clicker Page Down) still steps through reveals. Other lessons get these once approved
 
+#### Changed
+- **Lessons:** the ✎ Review notes system is gone (feedback now goes straight into the lessons chat); lessons not yet checked show an **Under review** tag. Big images with a plain coloured background now set the slide/frame to the same colour, and photos can be shown as soft-edged circles (used for the "cat-ions" kittens)
+- **Lesson 1f Ionic bonding:** hydroxide (OH⁻) dot-and-cross with the extra electron in red replaces phosphate; the ion-charge periodic table first shows only Groups 1, 2 and 3–7; fuller "Ionic compounds" and "Ionic lattices" slides (including conductivity); a melting-point chart (water / NaCl / MgO) on "Why high melting points?"
+
 ---
 
 ## [5.0.0] - 2026-11-18
